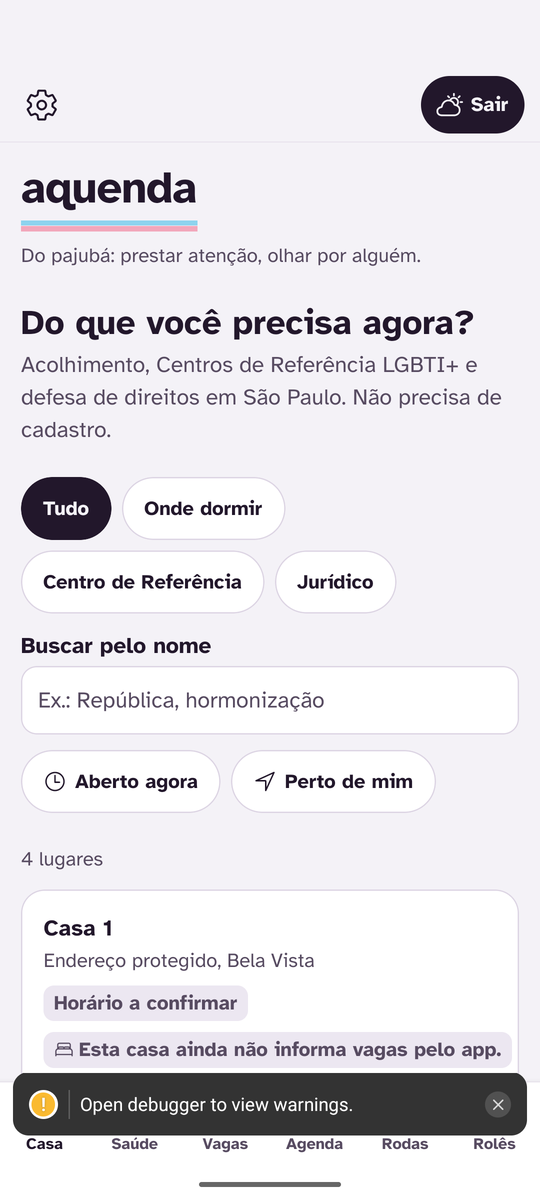
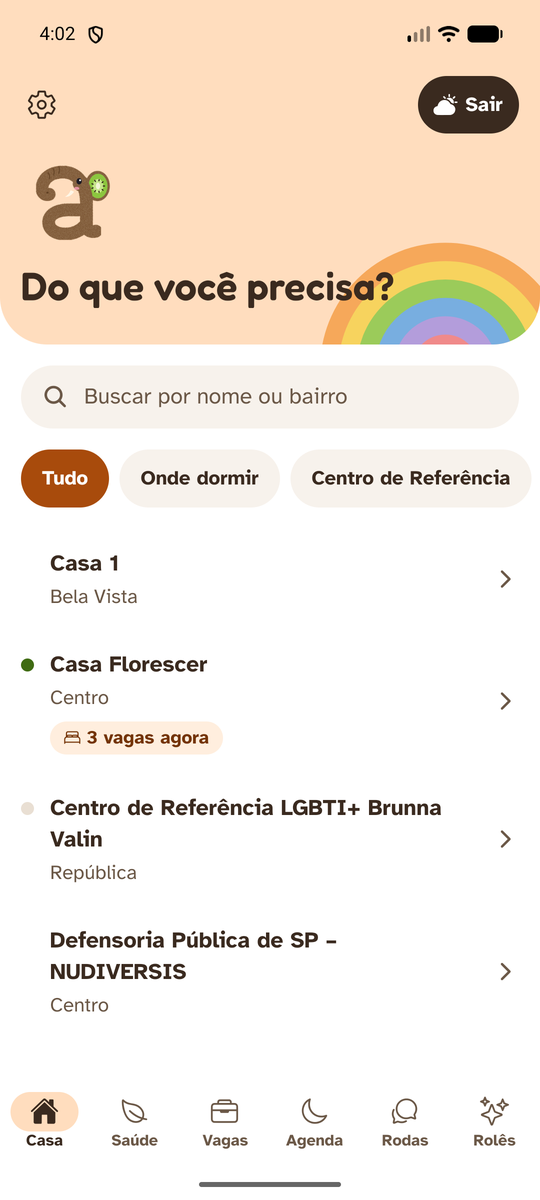
Prints das telas, fonte do sistema na tela de clima e README com chat, mapa e roteiro

diff --git a/src/app/clima.tsx b/src/app/clima.tsx
@@ -4,13 +4,17 @@
 import Ionicons from '@expo/vector-icons/Ionicons';
 import { router } from 'expo-router';
 import { useEffect, useMemo } from 'react';
-import { BackHandler, Pressable, ScrollView, StyleSheet, View } from 'react-native';
+import { BackHandler, Platform, Pressable, ScrollView, StyleSheet, View } from 'react-native';
 import { SafeAreaView } from 'react-native-safe-area-context';
 import { Texto, type NomeIcone } from '@/componentes/base';
 import { useSessao } from '@/estado/Sessao';
 import { DIAS_CURTOS } from '@/lib/agenda';
 import { previsaoDoDia } from '@/lib/clima';
 import { espaco } from '@/tema/tokens';
+
+// fonte do sistema, como num app de clima comum (a do Aquenda entregaria o disfarce)
+const SISTEMA = { fontFamily: Platform.OS === 'android' ? 'sans-serif' : 'System' };
+const SISTEMA_FORTE = { fontFamily: Platform.OS === 'android' ? 'sans-serif-medium' : 'System', fontWeight: '600' as const };
 
 const CEU = { fundo: '#2F6CA3', cartao: 'rgba(255,255,255,0.16)', texto: '#FFFFFF', suave: '#E3EEF8' };
 
@@ -46,33 +50,33 @@ export default function Clima() {
       <ScrollView contentContainerStyle={{ padding: espaco.xl, gap: espaco.xl }}>
         <View style={{ alignItems: 'center', gap: espaco.xs, paddingTop: espaco.xl }}>
           <Pressable onLongPress={entrar} delayLongPress={700} accessibilityRole="text" accessibilityLabel="São Paulo">
-            <Texto v="subtitulo" cor={CEU.texto}>
+            <Texto v="subtitulo" style={SISTEMA_FORTE} cor={CEU.texto}>
               São Paulo
             </Texto>
           </Pressable>
-          <Texto cor={CEU.texto} style={{ fontSize: 88, lineHeight: 96 }} maxFontSizeMultiplier={1.2}>
+          <Texto cor={CEU.texto} style={[SISTEMA, { fontSize: 88, lineHeight: 96, fontWeight: '200' }]} maxFontSizeMultiplier={1.2}>
             {hoje.agora}°
           </Texto>
-          <Texto v="forte" cor={CEU.suave}>
+          <Texto v="forte" style={SISTEMA_FORTE} cor={CEU.suave}>
             {hoje.descricao}
           </Texto>
-          <Texto cor={CEU.suave}>
+          <Texto cor={CEU.suave} style={SISTEMA}>
             Máx. {hoje.max}° Mín. {hoje.min}°
           </Texto>
         </View>
 
         <View style={[s.cartao, { backgroundColor: CEU.cartao }]}>
-          <Texto v="apoioForte" cor={CEU.suave}>
+          <Texto v="apoioForte" style={SISTEMA_FORTE} cor={CEU.suave}>
             Próximas horas
           </Texto>
           <View style={{ flexDirection: 'row', justifyContent: 'space-between' }}>
             {hoje.horas.map((h) => (
               <View key={h.hora} style={{ alignItems: 'center', gap: 6 }}>
-                <Texto v="apoio" cor={CEU.suave}>
+                <Texto v="apoio" cor={CEU.suave} style={SISTEMA}>
                   {String(h.hora).padStart(2, '0')}h
                 </Texto>
                 <Ionicons name={ICONES[h.ceu]} size={24} color={CEU.texto} />
-                <Texto v="forte" cor={CEU.texto}>
+                <Texto v="forte" style={SISTEMA_FORTE} cor={CEU.texto}>
                   {h.temp}°
                 </Texto>
               </View>
@@ -81,19 +85,19 @@ export default function Clima() {
         </View>
 
         <View style={[s.cartao, { backgroundColor: CEU.cartao }]}>
-          <Texto v="apoioForte" cor={CEU.suave}>
+          <Texto v="apoioForte" style={SISTEMA_FORTE} cor={CEU.suave}>
             Próximos 7 dias
           </Texto>
           {dias.map((d, i) => (
             <View key={i} style={s.dia}>
-              <Texto v="forte" cor={CEU.texto} style={{ width: 64 }}>
+              <Texto v="forte" cor={CEU.texto} style={[SISTEMA_FORTE, { width: 64 }]}>
                 {i === 0 ? 'Hoje' : DIAS_CURTOS[d.data.getDay()]}
               </Texto>
               <Ionicons name={ICONES[d.ceu]} size={24} color={CEU.texto} />
-              <Texto cor={CEU.suave} style={{ width: 52, textAlign: 'right' }}>
+              <Texto cor={CEU.suave} style={[SISTEMA, { width: 52, textAlign: 'right' }]}>
                 {d.chuva}%
               </Texto>
-              <Texto cor={CEU.texto} style={{ flex: 1, textAlign: 'right' }}>
+              <Texto cor={CEU.texto} style={[SISTEMA, { flex: 1, textAlign: 'right' }]}>
                 {d.min}° / {d.max}°
               </Texto>
             </View>

diff --git a/src/componentes/Tela.tsx b/src/componentes/Tela.tsx
@@ -35,7 +35,7 @@ function Topo({ secao, titulo, apoio, extra }: { secao: NomeSecao; titulo: strin
   return (
     <View style={[est.topo, { backgroundColor: s.topo, paddingTop: insets.top + espaco.xs }]}>
       <View style={est.forma}>
-        <FormaSecao secao={secao} cor={s.forma} tamanho={170} />
+        <FormaSecao secao={secao} cor={s.forma} tamanho={200} />
       </View>
       <View style={est.barra}>
         <BotaoIcone icone="settings-outline" rotulo="Ajustes" dica="Modo discreto, PIN e seus dados" cor={s.sobreTopo} onPress={() => router.push('/ajustes')} />
@@ -43,7 +43,7 @@ function Topo({ secao, titulo, apoio, extra }: { secao: NomeSecao; titulo: strin
         <SaidaRapida />
       </View>
       {extra}
-      <View style={{ gap: espaco.xs, paddingRight: 90 }}>
+      <View style={{ gap: espaco.xs, paddingRight: 130 }}>
         <Texto v="titulo" cor={s.sobreTopo}>
           {titulo}
         </Texto>
@@ -116,7 +116,7 @@ const est = StyleSheet.create({
     overflow: 'hidden',
     gap: espaco.m,
   },
-  forma: { position: 'absolute', right: -26, bottom: -64 },
+  forma: { position: 'absolute', right: -18, bottom: -58 },
   barra: { flexDirection: 'row', alignItems: 'center', marginLeft: -espaco.s },
   saida: {
     minHeight: ALVO_MINIMO - 4,

diff --git a/src/componentes/base.tsx b/src/componentes/base.tsx
@@ -226,7 +226,7 @@ export function Linha({
   onPress: () => void;
   rotulo?: string;
   dica?: string;
-  /** bolinha colorida à esquerda (ex.: aberto agora) */
+  /** bolinha colorida à esquerda (ex.: aberto agora). String vazia reserva o espaço sem cor. */
   marca?: string;
 }) {
   const { cor } = useTema();
@@ -238,7 +238,7 @@ export function Linha({
       onPress={onPress}
       style={({ pressed }) => [est.linha, { opacity: pressed ? 0.6 : 1 }]}
     >
-      {marca ? <View style={[est.marca, { backgroundColor: marca }]} /> : null}
+      {marca !== undefined ? <View style={[est.marca, { backgroundColor: marca || 'transparent' }]} /> : null}
       <View style={{ flex: 1, gap: 3 }}>
         <Texto v="forte">{titulo}</Texto>
         {apoio ? (

diff --git a/src/componentes/Servico.tsx b/src/componentes/Servico.tsx
@@ -48,7 +48,7 @@ export const ServicoItem = memo(function ServicoItem({ servico, vagas }: { servi
       titulo={servico.nome}
       apoio={onde}
       direita={distancia(servico.distanciaKm)}
-      marca={servico.abertoAgora === true ? cor.ok : servico.abertoAgora === false ? cor.linha : undefined}
+      marca={servico.abertoAgora === true ? cor.ok : servico.abertoAgora === false ? cor.linha : ''}
       rotulo={partesFaladas.filter(Boolean).join('. ')}
       dica="Abre os detalhes e como entrar"
       onPress={() => router.push({ pathname: '/servico/[id]', params: { id: String(servico.id) } })}

diff --git a/src/app/vaga/[id].tsx b/src/app/vaga/[id].tsx
@@ -33,7 +33,7 @@ export default function DetalheVaga() {
       ) : (
         <>
           <View style={{ gap: espaco.s }}>
-            <Texto v="titulo">{v.titulo}</Texto>
+            <Texto v={v.titulo.length > 60 ? 'subtitulo' : 'titulo'}>{v.titulo}</Texto>
             <Texto suave>{v.empresa}</Texto>
             <View style={{ flexDirection: 'row', flexWrap: 'wrap', gap: espaco.s }}>
               {v.afirmativa ? <Selo tom="secao" icone="heart-outline" texto="Afirmativa" /> : null}

diff --git a/README.md b/README.md
@@ -37,10 +37,10 @@ O nome vem do pajubá, a linguagem criada e mantida pela comunidade travesti: *a
 | **Saúde** | Rede SAMPA Trans, hormonização e saúde mental, com "Por onde começar" (UBS). Abaixo, as unidades **habilitadas no processo transexualizador do SUS** (30.01, 30.02, 30.03), filtráveis por habilitação. | API C#: `/api/servicos?categoria=Saude` · FastAPI: `/api/municipios/3550308/estabelecimentos`, `/api/cnes/estabelecimentos/{codigo}` |
 | **Vagas** | Vagas afirmativas (Gupy, Adzuna, Transcidadania, TransEmpregos) com filtros de texto, cidade, modalidade e "só afirmativas". O detalhe mostra **por que a vaga é afirmativa** (o trecho do anúncio, `termo_afirmativo`) e o botão abre a candidatura **no site de origem** (`url_candidatura`). | FastAPI: `/api/vagas`, `/api/vagas/{id}` |
 | **Agenda** | Lembretes de hormônio (todo dia, dias da semana ou a cada N dias) e consultas com aviso antes. Notificação local no horário que a pessoa escolheu, "Marcar como feito" e histórico. **Nada sai do celular e o app não sugere dose.** | expo-sqlite + expo-notifications |
-| **Rodas** | Rodas de conversa presenciais e grupos de ONGs (sem chat próprio, como decidido no pitch). | API C#: `/api/rodas`, `/api/rodas/{id}` |
-| **Rolês** | Bares, baladas e espaços LGBT+ da curadoria, com "Aberto agora". | API C#: `/api/servicos?categoria=Role` |
+| **Rodas** (Conversa) | **Salas de conversa em tempo real**: primeiro emprego, transição, família e recém-chegades a SP. Só 18+, só apelido, sem conversa privada, moderadas por ONG. Segurar uma mensagem abre **denunciar** (1 toque; com 3 denúncias some) ou **bloquear** (só no seu celular). Abaixo, as rodas presenciais. | API C#: `/api/chat/...` e SignalR em `/hubs/chat`; `/api/rodas` |
+| **Rolês** | Bares, baladas e espaços LGBT+ da curadoria e do OpenStreetMap (tag `lgbtq`, importada pela API C#), com "Aberto agora" e **mapa**. | API C#: `/api/servicos?categoria=Role` · mapa OpenStreetMap |
 
-Em todo serviço: **Como chegar**, **Ligar** e **Abrir site** contam um toque no indicador de impacto (`POST /api/metricas/interacoes`, só tipo e id do serviço), e **Avisar que fechou** manda `POST /api/servicos/{id}/avisos-fechamento`.
+Casa e Rolês têm o botão **Mapa** (OpenStreetMap com Leaflet, sem chave; endereço protegido nunca entra no mapa). Em todo serviço: **Como chegar**, **Ligar** e **Abrir site** contam um toque no indicador de impacto (`POST /api/metricas/interacoes`, só tipo e id do serviço), e **Avisar que fechou** manda `POST /api/servicos/{id}/avisos-fechamento`.
 
 **Se uma API cair**, cada tela mostra o último dado guardado no celular com uma faixa "Sem conexão com o serviço agora. Você está vendo o que foi guardado hoje às 14h05". Se nunca houve dado guardado, a tela explica o que aconteceu e oferece "Tentar de novo". Nunca fica uma tela vazia sem explicação.
 
@@ -48,7 +48,7 @@ Em todo serviço: **Como chegar**, **Ligar** e **Abrir site** contam um toque no
 
 ## Como rodar
 
-Pré-requisitos: Node 20+, Android Studio com um emulador (ou um celular Android com depuração USB) e as duas APIs rodando.
+Pré-requisitos: Node 20+, Android Studio com um emulador (ou um celular Android com depuração USB) e as duas APIs rodando. A API C# precisa estar na versão com o chat (commit `63e4421` ou mais nova da branch `rinku/loving-planck-r47bz4`).
 
 1. Suba as APIs (cada uma no seu repositório):
 
@@ -108,7 +108,7 @@ npm test
 npm run typecheck
 ```
 
-95 testes Jest, sem rede: o `jest.setup.ts` faz qualquer `fetch` não preparado falhar. Os clientes das APIs são testados contra **respostas gravadas das APIs reais** em `__tests__/respostas` (06/11/2026, depois de sincronizar a FastAPI com a Gupy, o CNES e o IBGE).
+167 testes Jest, sem rede: o `jest.setup.ts` faz qualquer `fetch` não preparado falhar. Os clientes das APIs são testados contra **respostas gravadas das APIs reais** em `__tests__/respostas` (06/11/2026, depois de sincronizar a FastAPI com a Gupy, o CNES e o IBGE).
 
 | Arquivo | O que testa |
 |---|---|
@@ -117,26 +117,28 @@ npm run typecheck
 | `cache.test.ts` | dado novo é guardado; API fora mostra o guardado com a data; sem nada guardado dá erro explicado; 404 não usa versão velha |
 | `formato.test.ts` | "há 5 minutos", "amanhã às 08h30", distâncias, links de telefone e mapa, recusa de `javascript:` |
 | `config-pin-clima.test.ts` | escolha do endereço (env, emulador, celular físico, Ajustes), regras do PIN, previsão da tela de clima |
-| `contraste.test.ts` | todos os pares de cor dos dois temas passam de 4,5:1 |
+| `conversa.test.ts` | salas: juntar mensagens do tempo real, ocultar, bloquear por apelido, mesmas regras de link/telefone/e-mail/CPF da API, e o cliente do `/api/chat` contra respostas gravadas (regras, salas, entrar, 18+, enviar, 401, 422, denúncia) |
+| `contraste.test.ts` | todos os pares de cor dos dois temas e das seis abas passam de 4,5:1 |
 
 ## Telas
 
 | | | |
 |---|---|---|
-| ![Casa](docs/telas/casa.png) Casa | ![Serviço](docs/telas/servico.png) Detalhe com "como entrar" | ![Saúde](docs/telas/saude.png) Saúde e CNES |
-| ![Vagas](docs/telas/vagas.png) Vagas afirmativas | ![Vaga](docs/telas/vaga.png) Por que é afirmativa | ![Agenda](docs/telas/agenda.png) Agenda |
-| ![Lembrete](docs/telas/lembrete.png) Novo lembrete | ![Rodas](docs/telas/rodas.png) Rodas | ![Rolês](docs/telas/roles.png) Rolês |
-| ![Sem conexão](docs/telas/sem-conexao.png) API fora: dado guardado | ![Ajustes](docs/telas/ajustes.png) Ajustes | ![Clima](docs/telas/clima.png) Saída rápida |
+| ![Casa](docs/telas/casa.png) Casa, com vagas agora | ![Serviço](docs/telas/servico.png) Detalhe e "como entrar" | ![Saúde](docs/telas/saude.png) Saúde e CNES |
+| ![Vagas](docs/telas/vagas.png) Vagas afirmativas | ![Vaga](docs/telas/vaga.png) Por que é afirmativa | ![Sem conexão](docs/telas/sem-conexao.png) API fora: dado guardado |
+| ![Agenda](docs/telas/agenda.png) Agenda | ![Lembrete](docs/telas/lembrete.png) Novo lembrete | ![Rolês](docs/telas/roles.png) Rolês |
+| ![Conversa](docs/telas/rodas.png) Salas e rodas | ![Entrar](docs/telas/entrar-sala.png) Combinados, apelido e 18+ | ![Sala](docs/telas/sala.png) Sala ao vivo |
+| ![Denunciar](docs/telas/sala-denunciar.png) Denunciar ou bloquear | ![Ajustes](docs/telas/ajustes.png) Ajustes | ![Clima](docs/telas/clima.png) Saída rápida |
 
 ## Onde cada critério da rubrica aparece
 
 | Critério | Onde ver |
 |---|---|
 | **Telas e navegação** | Expo Router em `src/app`: `(abas)/_layout.tsx` com as 6 abas do pitch, um `Stack` em `_layout.tsx` com os detalhes (`servico/[id]`, `vaga/[id]`, `cnes/[codigo]`, `roda/[id]`), os formulários da agenda em modal, Ajustes e a tela de clima. Rotas tipadas (`typedRoutes`). |
-| **Consumo de dados** | `src/lib/api`: `http.ts` (fetch com tempo limite e ProblemDetails), `csharp.ts` e `soa.ts` com todos os endpoints pedidos, `tipos.ts` com os contratos das duas APIs. `src/estado/useRecurso.ts` mostra o guardado na hora, atualiza pela rede e avisa quando o dado é antigo. Endereços configuráveis em `src/lib/config.ts`. |
-| **Banco de dados** | `src/lib/banco.ts`: expo-sqlite com migração por `PRAGMA user_version`, tabelas `lembretes`, `registros`, `consultas`, `favoritos`, `preferencias` e `cache_api`, consultas parametrizadas e transação. O PIN fica como hash SHA-256 com sal no `expo-secure-store` (`src/lib/discreto.ts`). |
+| **Consumo de dados** | `src/lib/api`: `http.ts` (fetch com tempo limite, cabeçalhos e ProblemDetails), `csharp.ts`, `chat.ts` e `soa.ts` com todos os endpoints pedidos, `tipos.ts` com os contratos das duas APIs. Tempo real das salas com SignalR em `src/lib/tempoReal.ts` (com consulta de reserva se a conexão cair). `src/estado/useRecurso.ts` mostra o guardado na hora, atualiza pela rede e avisa quando o dado é antigo. Endereços configuráveis em `src/lib/config.ts`. |
+| **Banco de dados** | `src/lib/banco.ts`: expo-sqlite com migração por `PRAGMA user_version`, tabelas `lembretes`, `registros`, `consultas`, `favoritos`, `bloqueados`, `preferencias` e `cache_api`, consultas parametrizadas e transação. O PIN fica como hash SHA-256 com sal no `expo-secure-store` (`src/lib/discreto.ts`), e o token das salas também fica lá (`src/lib/participante.ts`). |
 | **Acessibilidade** | Rótulos e dicas de leitor de tela em todo botão e cartão (o cartão lê nome, distância, se está aberto e as vagas numa frase só), `accessibilityRole`, `accessibilityState` nos chips, regiões "live" para avisos e erros. Fonte Atkinson Hyperlegible que cresce com o tamanho do sistema, alvos de toque de 48 dp ou mais, teclado de PIN com teclas de 72 dp, contraste AA testado nos temas claro e escuro, linguagem simples. Ver `src/componentes/base.tsx` e `DESIGN.md`. |
-| **Aderência ao problema** | Cada serviço diz **como entrar** ("vá à sua UBS e peça encaminhamento"); endereço de casa de acolhimento é protegido; vagas mostram por que são afirmativas e mandam para o site de origem; agenda só no celular e sem sugerir dose; modo discreto com ícone "Clima", PIN e saída rápida; indicador de impacto anônimo. |
+| **Aderência ao problema** | Cada serviço diz **como entrar** ("vá à sua UBS e peça encaminhamento"); endereço de casa de acolhimento é protegido; vagas mostram por que são afirmativas e mandam para o site de origem; salas de conversa 18+ moderadas, sem conversa privada e sem troca de contato; agenda só no celular e sem sugerir dose; modo discreto com ícone "Clima", PIN e saída rápida; indicador de impacto anônimo. |
 | **Documentação** | Este README (ficha, como rodar, telas, rubrica, roteiro), `DESIGN.md` com a direção visual, comentários nos módulos explicando as decisões. |
 
 ## Organização
@@ -170,7 +172,8 @@ __tests__/                         testes e respostas gravadas
 - **Posição:** só quando a pessoa toca em "Perto de mim", vai na busca com 4 casas decimais e não é guardada.
 - **Métricas sem pessoa:** o app manda só o tipo do toque e o id do serviço.
 - **Links:** o app só abre `http(s)`, então um anúncio com `javascript:` não passa.
-- **Apagar meus dados** (Ajustes) apaga o banco, o PIN e as notificações agendadas.
+- **Salas:** só apelido. O token fica no armazenamento seguro; bloquear alguém fica só no seu celular. O app avisa antes de enviar link, telefone, e-mail ou CPF (a API recusa de qualquer jeito).
+- **Apagar meus dados** (Ajustes) apaga o banco, o PIN, o token das salas e as notificações agendadas.
 
 ## Roteiro do vídeo (3 min)
 
@@ -179,5 +182,6 @@ __tests__/                         testes e respostas gravadas
 3. **0:55–1:20** · Saúde: "Por onde começar" e as unidades habilitadas no SUS vindas do CNES pela FastAPI.
 4. **1:20–1:45** · Vagas: filtro "só afirmativas", abrir uma vaga, mostrar "Por que é afirmativa" e o botão que abre o site de origem.
 5. **1:45–2:15** · Agenda: criar um lembrete a cada 14 dias e mostrar a notificação chegando. Dizer que fica só no celular e o app não sugere dose.
-6. **2:15–2:35** · Derrubar a FastAPI e voltar em Vagas: aparece a faixa com o dado guardado e a hora.
-7. **2:35–3:00** · Modo discreto: ligar, mostrar o ícone "Clima" na tela inicial, criar PIN, tocar em "Sair" e voltar segurando o nome da cidade.
+6. **2:15–2:30** · Conversa: entrar numa sala com apelido, mandar uma mensagem e ver a de outra pessoa chegar ao vivo. Segurar e mostrar denunciar/bloquear.
+7. **2:30–2:45** · Derrubar a FastAPI e voltar em Vagas: aparece a faixa com o dado guardado e a hora.
+8. **2:45–3:00** · Modo discreto: ícone "Clima" na tela inicial, PIN, "Sair" e voltar segurando o nome da cidade.

diff --git a/DESIGN.md b/DESIGN.md
@@ -1,43 +1,47 @@
 # Aquenda: direção visual
 
-O app é para alguém que pode estar com pressa, com medo ou sem lugar para dormir. Ele precisa parecer um bilhete de alguém que conhece o caminho, e não um painel de sistema. As escolhas abaixo valem para todas as telas e estão no código em `src/tema/tokens.ts`.
+Tudo sai da logo: um elefantinho com a pele de casca de kiwi, a orelha de kiwi cortado e a tromba de arco-íris pastel desenhando a letra "a". O app tem o mesmo jeito: ilustração de livro infantil, acolhedor, com pouco texto. As referências que guiaram o resto foram o Headspace (uma cor forte por seção, título curto, uma ação por tela) e o Finch (formas macias, autocuidado sem pressa). Os tokens estão em `src/tema/tokens.ts`.
 
 ## Cor
 
-| Nome | Claro | Escuro | Para quê |
-|---|---|---|---|
-| papel | `#F4F2F7` | `#17121C` | fundo de todas as telas: um lilás quase branco, frio o bastante para não virar "creme" |
-| tinta | `#22172B` | `#F1ECF4` | texto principal: ameixa, mais macio que o preto |
-| tinta suave | `#574B61` | `#C4BACC` | texto de apoio (passa de 4,5:1 nos dois temas) |
-| rosa-cravo | `#A3305A` | `#F39BB9` | o que se toca: botões principais, links, chip ativo |
-| azul | `#245F7C` | `#92D2EC` | informação boa: "3 vagas agora", vaga afirmativa, próximo lembrete |
-| fita | `#8DD3EE` + `#F2A7BB` | iguais | o único enfeite (ver abaixo) |
+| Papel | Claro | Para quê |
+|---|---|---|
+| papel | `#FFFFFF` | fundo, como o fundo da logo |
+| superfície | `#F7F2EC` | campos, bolhas do chat, blocos |
+| tinta | `#3A2A1F` | texto: o marrom da casca do kiwi |
+| tinta suave | `#6B5847` | texto de apoio |
 
-Todo par de texto e fundo é testado em `__tests__/contraste.test.ts` (WCAG AA, 4,5:1).
+Cada aba pega um tom do arco-íris da tromba. Juntas, as seis formam o arco inteiro, a comunidade toda, sem destacar uma bandeira só:
+
+| Aba | Tom | Topo | Ação |
+|---|---|---|---|
+| Rodas e salas | coral | `#FBD6D5` | `#AC3636` |
+| Casa | laranja | `#FFDDBE` | `#A84B0C` |
+| Rolês | amarelo | `#FCEDB3` | `#856000` |
+| Saúde | verde-kiwi | `#DCEFBF` | `#4A7314` |
+| Vagas | azul | `#D3E5F7` | `#2C61A3` |
+| Agenda | lilás | `#E6DCF6` | `#6547AA` |
+
+O topo é o tom claro (texto marrom por cima); botões e chips ativos usam o tom escuro (texto branco). Tem modo escuro com os mesmos papéis. Todos os pares, nos dois temas e nas seis abas, passam de 4,5:1 (`__tests__/contraste.test.ts`).
 
 ## Tipo
 
-Uma família só: **Atkinson Hyperlegible**, do Braille Institute, feita para baixa visão (I, l e 1 não se confundem; nem O e 0). Regular para ler, Bold para títulos e ações. O corpo é 17 pt, e tudo cresce com o tamanho de fonte do celular.
+- **Fredoka** (redonda) só nos títulos: conversa com o traço gordinho da logo.
+- **Atkinson Hyperlegible** em todo o resto: feita pelo Braille Institute para baixa visão.
 
-## A fita
+Corpo de 17 pt, e tudo cresce com o tamanho de fonte do celular.
 
-Duas listras finas, azul e rosa. Quem é da comunidade reconhece a bandeira; para quem está de fora, é só um detalhe gráfico. Ela aparece em três lugares e mais nenhum:
+## Forma
 
-1. sob o nome *aquenda* na aba casa;
-2. em cima do ícone da aba em que você está;
-3. na lateral da caixa **Como entrar**, o passo de entrada de cada serviço, que é a informação mais importante do app.
-
-## Layout
-
-Lista alinhada à esquerda, um cartão por lugar. O cartão diz nome, endereço (ou "Endereço protegido" para casas de acolhimento), selos de estado e, sempre, o "Como entrar". Os raios mudam com a hierarquia: cartão 18, botão 12, chip redondo, a fita reta. Sem sombras: bordas finas na cor `linha`.
-
-## O que evitamos de propósito
-
-- rótulo em caixa alta acima de título, números 01/02/03 decorativos, seta "→" em botão;
-- uma palavra colorida no meio do título;
-- gradiente, sombra cinza igual em tudo, ícone dentro de quadrado arredondado;
-- creme com terracota, preto com verde-limão.
+- **Topo de cada aba**: o tom da aba com a borda de baixo bem arredondada (36) e, no canto, um **arco-íris pastel** igual à tromba, começando pela cor da aba.
+- **Listas sem caixa**: cada lugar é uma linha (nome, bairro, um selo só) com a setinha. Nada de cartão com borda e sombra em volta de tudo.
+- **Pílulas**: botões e chips são redondos; blocos de destaque têm raio 24.
+- O **mascote** aparece na abertura da aba Casa, nas telas vazias ("Nada por aqui") e na entrada das salas.
 
 ## Escrita
 
-Você, frases curtas, verbo no começo do botão ("Salvar lembrete", "Avisar que fechou"). Linguagem neutra em gênero quando precisa ("encaminhade"). Erro diz o que houve e o que fazer; tela vazia diz por que está vazia.
+Pouco texto. Título curto ("Trabalho", "Agenda", "Do que você precisa?") e uma linha de apoio no máximo. O "como entrar" de cada serviço só aparece no detalhe, em destaque. Botão começa com verbo. Linguagem neutra quando precisa ("chamade", "encaminhade"). Erro diz o que houve e o que fazer.
+
+## O que evitamos
+
+Rótulo em caixa alta, numeração decorativa, seta em botão, uma palavra colorida no título, gradiente, a mesma sombra cinza em tudo e os combos "creme com terracota" ou "preto com verde-limão".
